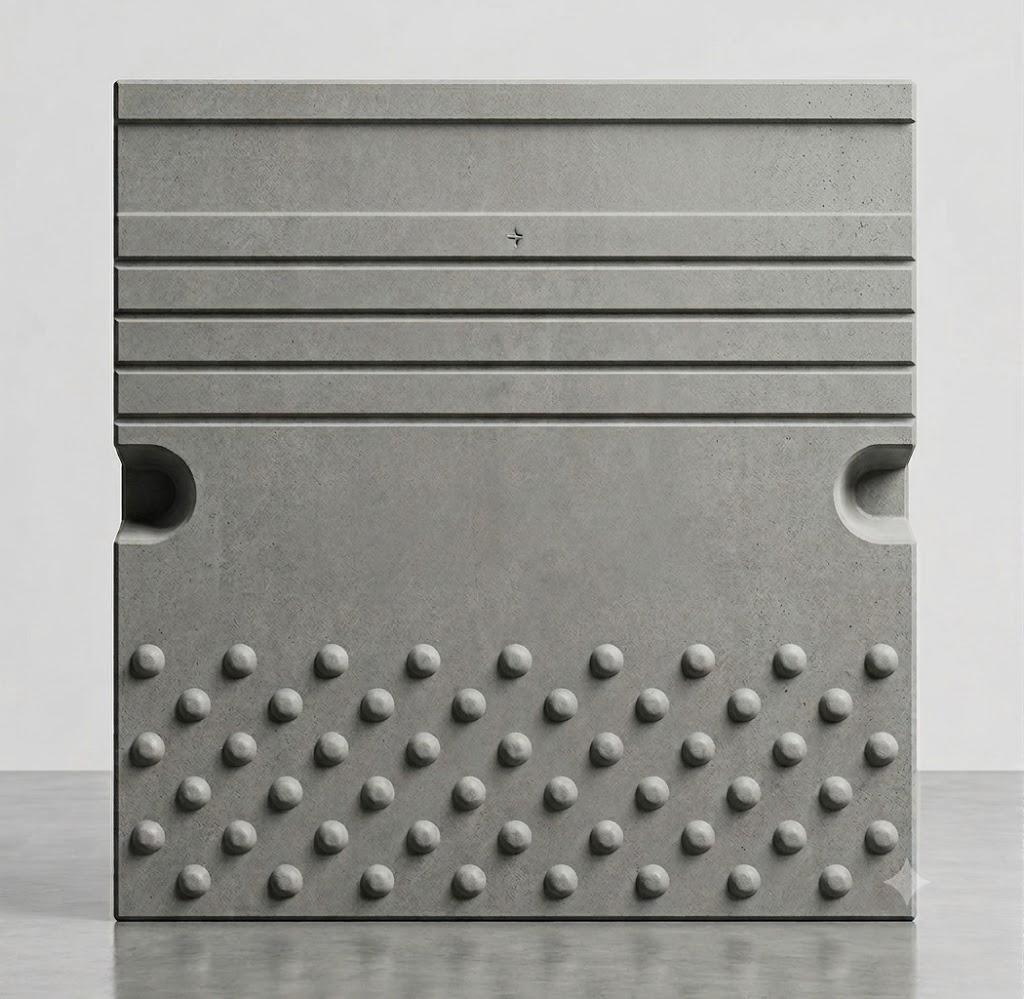
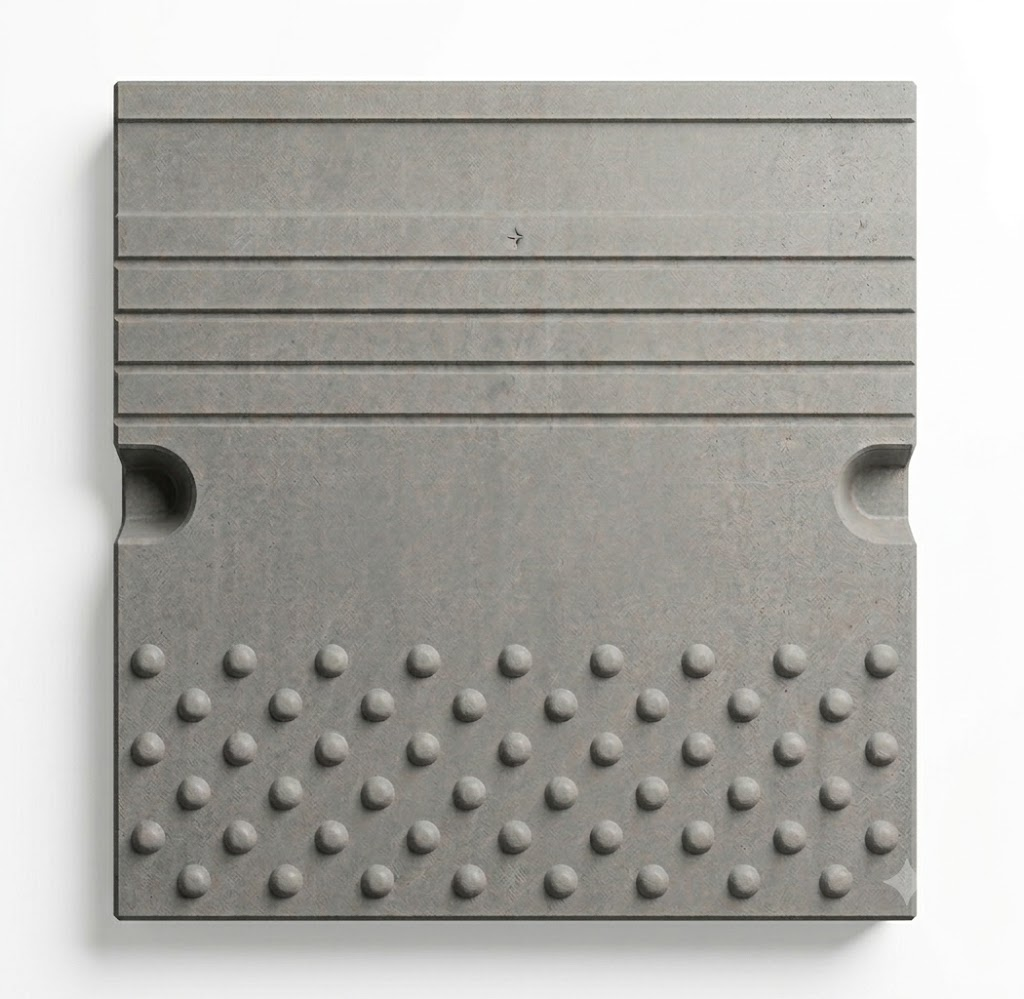
Updates

diff --git a/src/components/Footer.jsx b/src/components/Footer.jsx
@@ -7,11 +7,22 @@ export default function Footer() {
         <div className="grid grid-cols-1 sm:grid-cols-2 lg:grid-cols-5 gap-10 lg:gap-8">
           {/* Company */}
           <div className="lg:col-span-2">
-            <div className="flex items-center gap-3 mb-4 -ml-1">
+            <div className="flex items-center gap-2 md:gap-4 mb-4 -ml-1 flex-shrink-0">
               <img src="/logo.png" alt="R.D. Concrete Co. Logo" className="h-10 md:h-14 w-auto object-contain mix-blend-multiply" />
-              <span className="font-display font-bold text-ink text-2xl md:text-3xl tracking-wider uppercase mt-1 whitespace-nowrap">
-                RD CONCRETE CO.
-              </span>
+              <div className="flex flex-col justify-center">
+                <span className="font-display font-bold text-ink text-[10px] md:text-xs tracking-widest uppercase mb-[-2px] md:mb-[-4px]">
+                  Since 2005
+                </span>
+                <span className="font-display font-bold text-ink text-2xl md:text-3xl tracking-wider uppercase leading-none whitespace-nowrap">
+                  RD CONCRETE CO.
+                </span>
+                <div className="flex items-center gap-1.5 md:gap-2 mt-1 md:mt-1.5">
+                  <div className="h-[3px] md:h-[3.5px] flex-grow bg-[#C89B5C]"></div>
+                  <span className="font-display font-bold text-ink/90 text-[10px] md:text-xs tracking-widest uppercase whitespace-nowrap">
+                    WE BUILD STRENGTH & QUALITY
+                  </span>
+                </div>
+              </div>
             </div>
             <p className="text-sm text-[#5a5a5a] leading-relaxed mb-6">
               Manufacturer of quality precast concrete products since 2005.

diff --git a/src/components/Navbar.jsx b/src/components/Navbar.jsx
@@ -27,9 +27,20 @@ export default function Navbar() {
             {/* Logo */}
             <Link href="/" className="flex items-center gap-2 md:gap-4 no-underline flex-shrink-0">
               <img src="/logo.png" alt="R.D. Concrete Co. Logo" className="h-10 sm:h-12 md:h-24 w-auto object-contain mix-blend-multiply" />
-              <span className="font-display font-bold text-ink text-xl sm:text-2xl md:text-4xl tracking-wider uppercase mt-1">
-                RD CONCRETE CO.
-              </span>
+              <div className="flex flex-col justify-center">
+                <span className="font-display font-bold text-ink text-[10px] sm:text-xs md:text-sm tracking-widest uppercase mb-[-2px] md:mb-[-4px]">
+                  Since 2005
+                </span>
+                <span className="font-display font-bold text-ink text-xl sm:text-2xl md:text-4xl tracking-wider uppercase leading-none">
+                  RD CONCRETE CO.
+                </span>
+                <div className="flex items-center gap-1.5 md:gap-2 mt-1 md:mt-1.5">
+                  <div className="h-[3px] md:h-[4px] flex-grow bg-[#C89B5C]"></div>
+                  <span className="font-display font-bold text-ink/90 text-[10px] sm:text-xs md:text-sm tracking-widest uppercase whitespace-nowrap">
+                    WE BUILD STRENGTH & QUALITY
+                  </span>
+                </div>
+              </div>
             </Link>
 
             {/* Desktop Nav (Centered) */}

diff --git a/src/components/FloatingSocial.jsx b/src/components/FloatingSocial.jsx
@@ -28,7 +28,7 @@ export default function FloatingSocial() {
   const socials = [
     {
       label: "WhatsApp",
-      href: "https://wa.me/91XXXXXXXXXX",
+      href: "https://wa.me/9992554620",
       bg: "#25D366",
       icon: (
         <svg width="24" height="24" viewBox="0 0 24 24" fill="white">

diff --git a/src/components/UDrainLandingPage.jsx b/src/components/UDrainLandingPage.jsx
@@ -220,7 +220,7 @@ const productData = {
     ],
     heroImage: "/prod10.png",
     heroImageFit: "cover",
-    gallery: ["/copping-stone1.jpeg", "/copping-stone3.jpeg", "/copping-stone2.jpeg"],
+    gallery: ["/copping-stone1.jpeg", "/copping-stone3.png", "/copping-stone2.jpeg"],
     bulletPoints: [],
     implementationFeatures: [
       { cat: "Railway Stations", desc: "Provides a safe, demarcated edge for passenger platforms." },